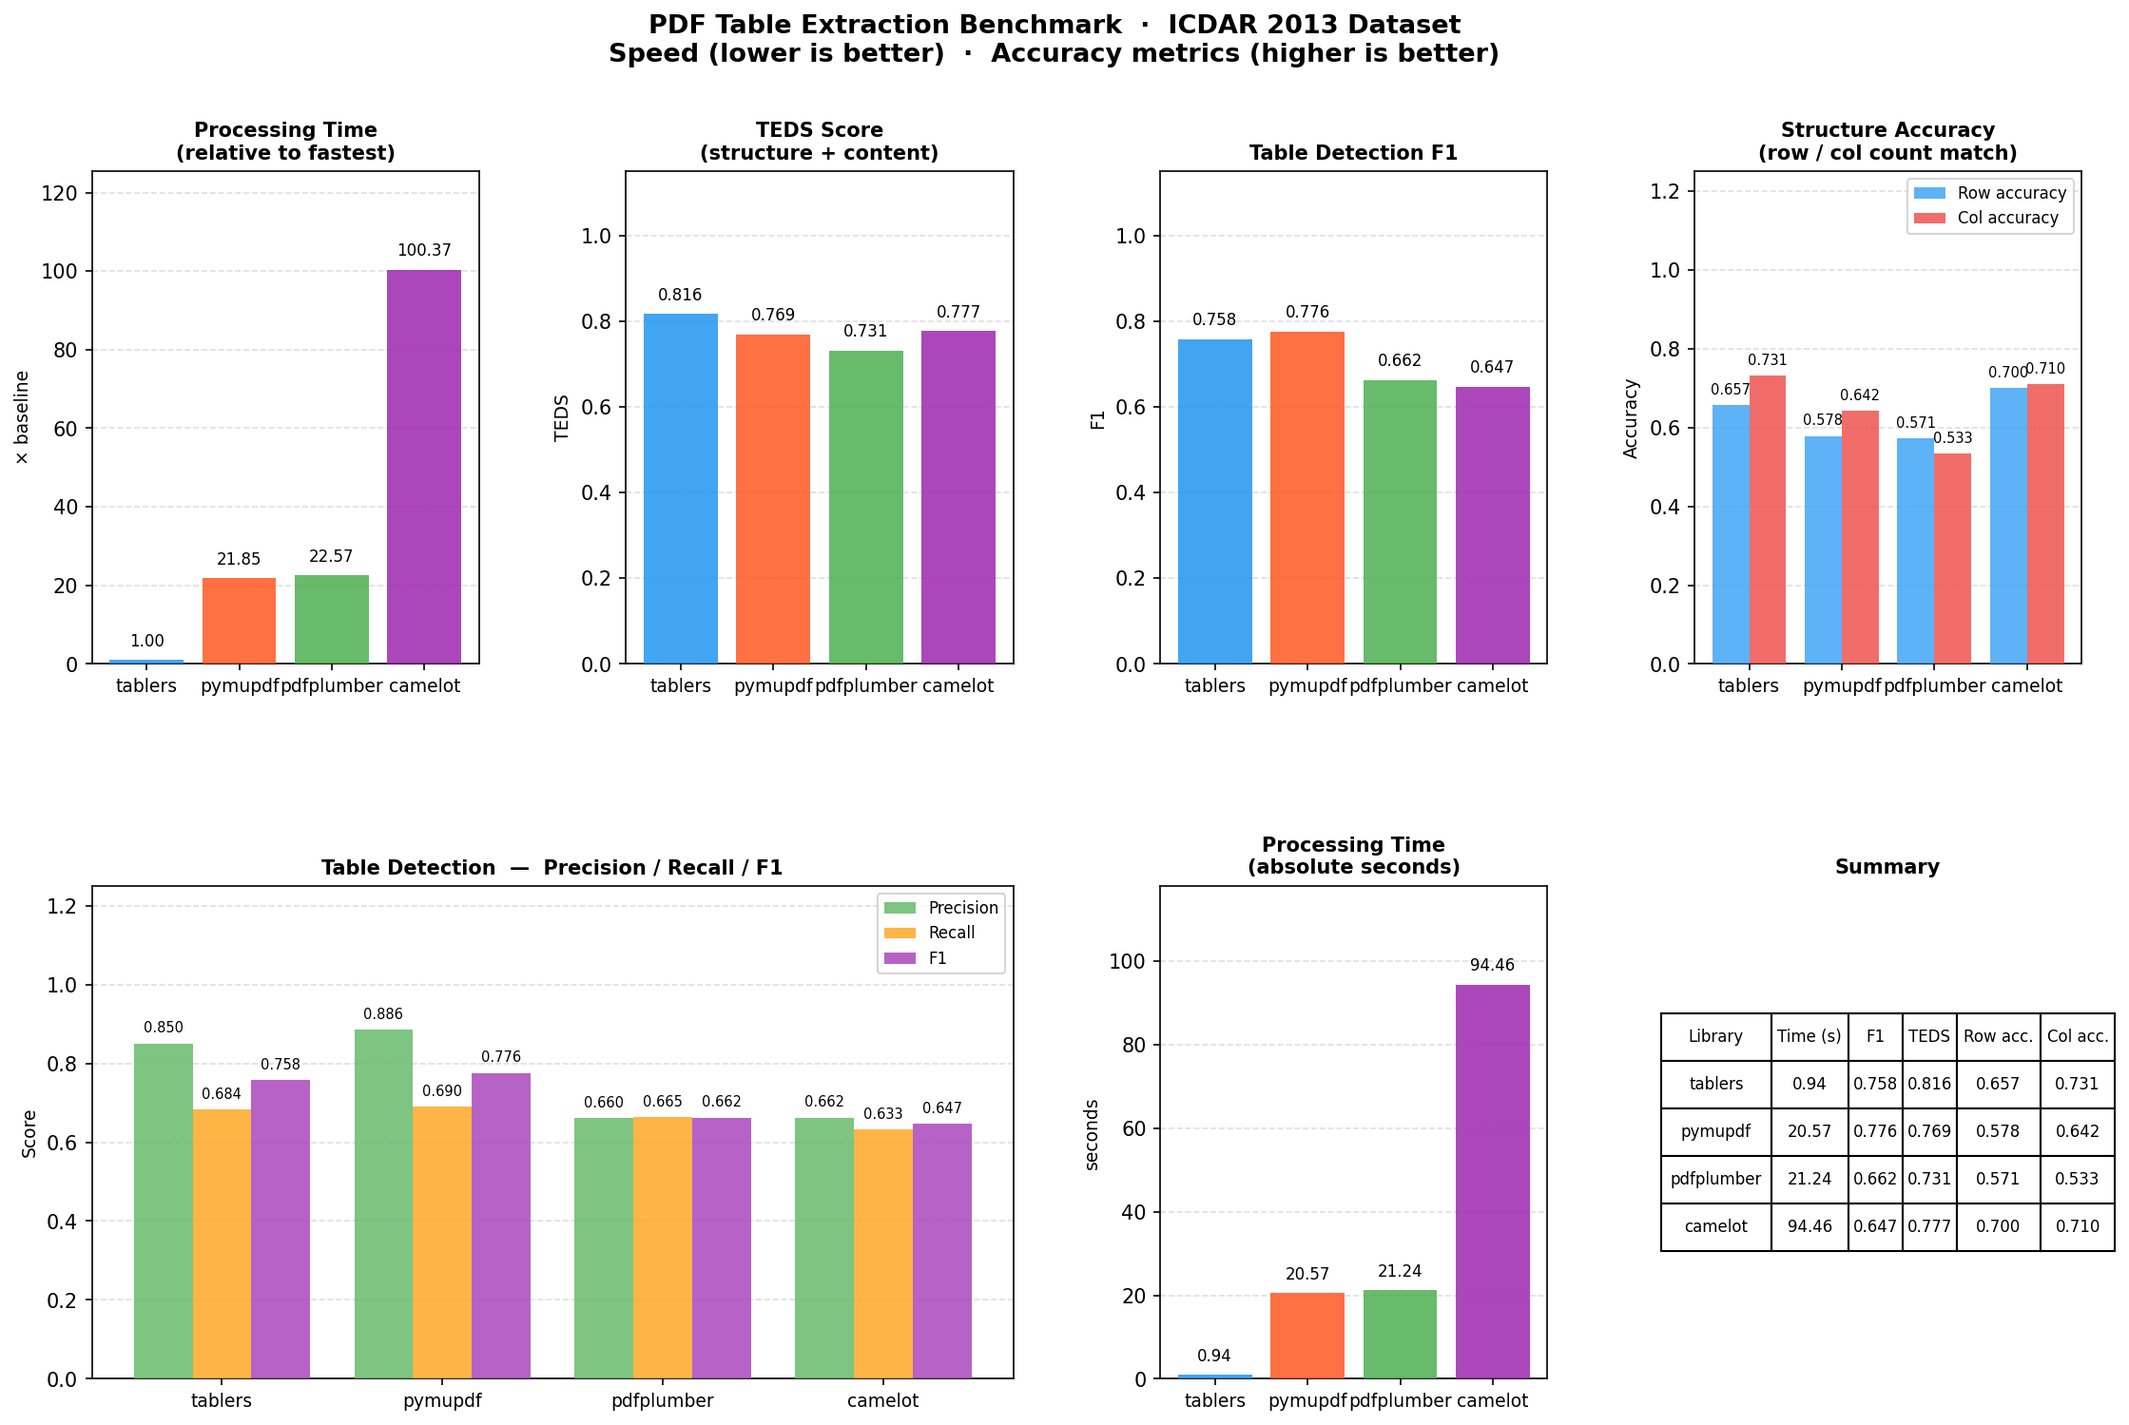
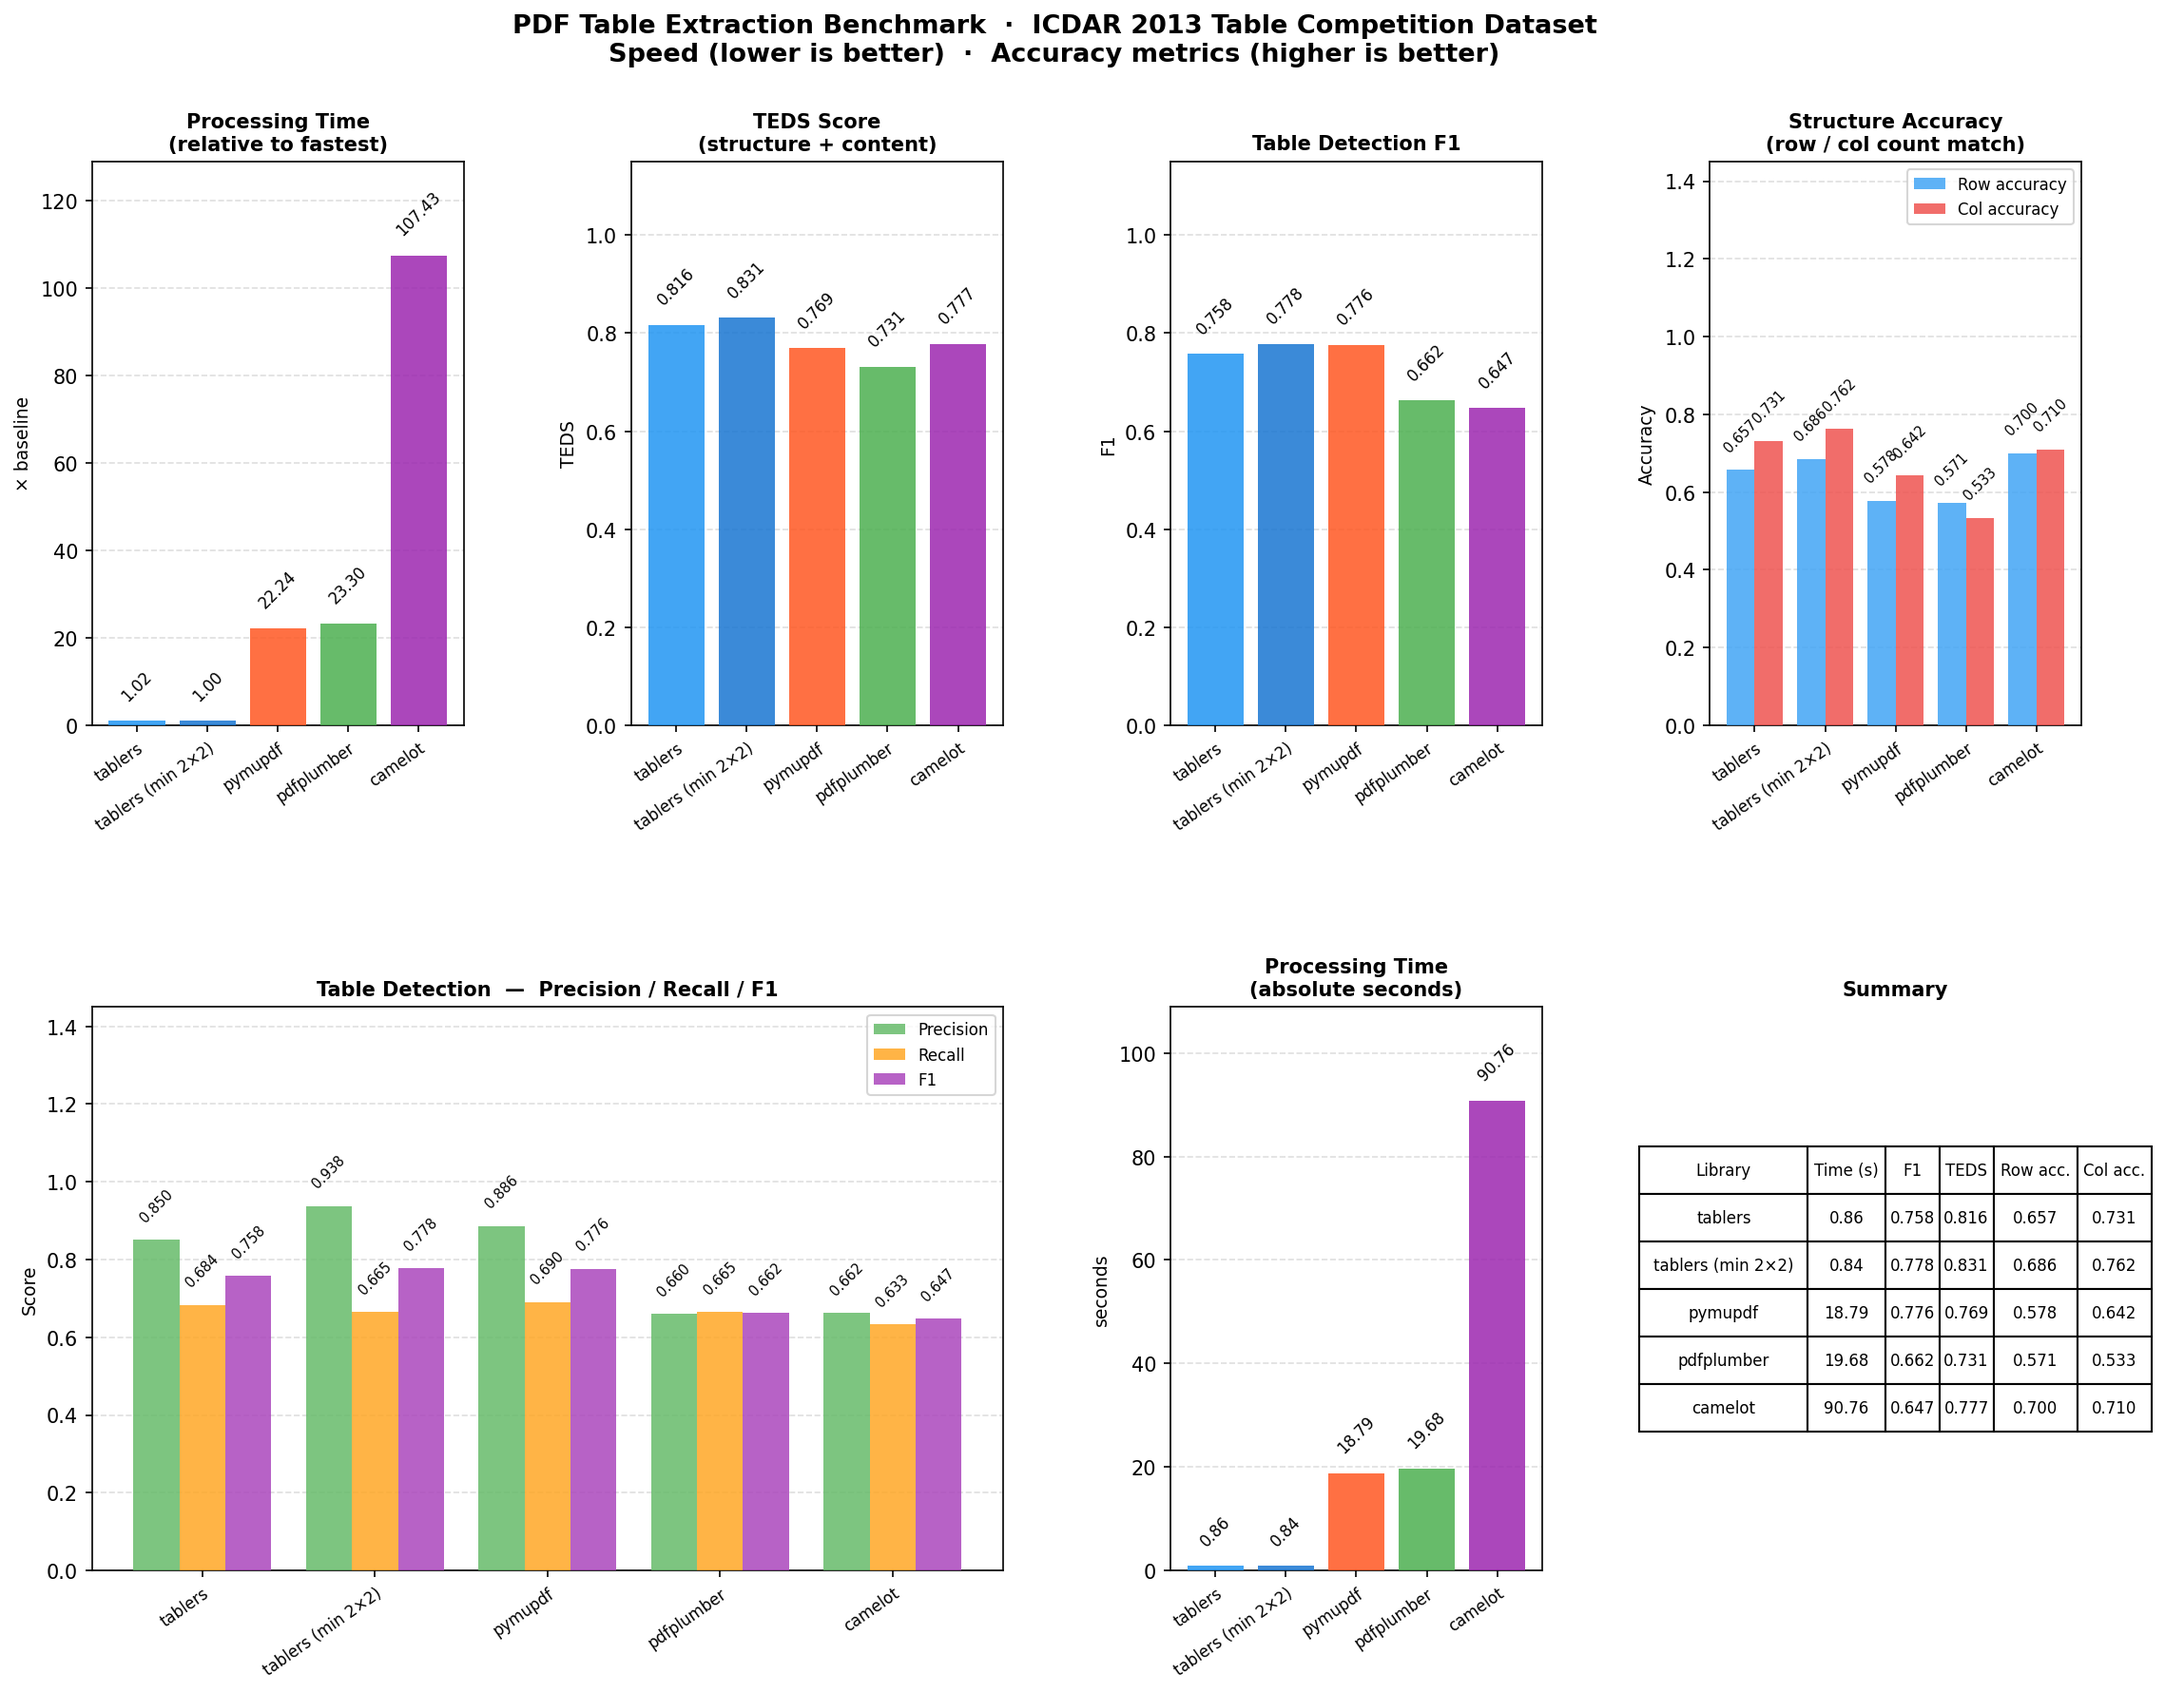
add: tablers min 2x2 config and update plots

diff --git a/main.py b/main.py
@@ -26,8 +26,8 @@ from benchmark.datasets import load_icdar2013
 from benchmark.extractors import EXTRACTORS
 from benchmark.metrics import BenchmarkResult, compute_benchmark_result
 
-# Colour palette (tablers / pymupdf / pdfplumber / camelot)
-_COLORS = ['#2196F3', '#FF5722', '#4CAF50', '#9C27B0']
+# Colour palette (tablers / tablers min 2×2 / pymupdf / pdfplumber / camelot)
+_COLORS = ['#2196F3', '#1976D2', '#FF5722', '#4CAF50', '#9C27B0']
 
 # Number of runs for tablers; average time is used for comparison (it is much faster than others)
 _TABLERS_RUNS = 10
@@ -67,7 +67,7 @@ def run_benchmark(
     results: list[BenchmarkResult] = []
     for lib_name, extractor in EXTRACTORS.items():
         print(f"Running {lib_name} …")
-        if lib_name == 'tablers':
+        if lib_name.startswith('tablers'):
             print(f"  (each document × {_TABLERS_RUNS} runs, using average time for comparison)")
         pred_per_doc: dict[str, dict[int, list]] = {}
         total_time = 0.0
@@ -76,7 +76,7 @@ def run_benchmark(
         for doc in documents:
             key = str(doc.pdf_path)
             try:
-                if lib_name == 'tablers':
+                if lib_name.startswith('tablers'):
                     # Run tablers _TABLERS_RUNS times and use average time for fair comparison
                     run_times: list[float] = []
                     for _ in range(_TABLERS_RUNS):
@@ -124,16 +124,21 @@ def _bar(ax: plt.Axes, libs: list[str], values: list[float],
     bars = ax.bar(libs, values, color=_COLORS[:len(libs)], alpha=0.85, zorder=3)
     ax.set_title(title, fontsize=10, fontweight='bold')
     ax.set_ylabel(ylabel, fontsize=9)
-    top = ylim_top if ylim_top is not None else max(values) * 1.25 if max(values) > 0 else 1
+    max_val = max(values) if values else 0
+    # Leave ~15% headroom above max so value labels don't touch the bar
+    top = ylim_top if ylim_top is not None else (max_val * 1.2 if max_val > 0 else 1)
     ax.set_ylim(0, top)
     ax.grid(axis='y', linestyle='--', alpha=0.4, zorder=0)
-    ax.tick_params(axis='x', labelsize=9)
+    ax.tick_params(axis='x', labelsize=8)
+    plt.setp(ax.get_xticklabels(), rotation=35, ha='right', rotation_mode='anchor')
+    # Fixed gap as fraction of y-axis so spacing looks consistent across subplots
+    label_y_offset = top * 0.03
     for bar, val in zip(bars, values):
         ax.text(
             bar.get_x() + bar.get_width() / 2,
-            bar.get_height() + top * 0.02,
+            bar.get_height() + label_y_offset,
             f'{val:{fmt}}',
-            ha='center', va='bottom', fontsize=8,
+            ha='center', va='bottom', fontsize=8, rotation=45,
         )
 
 
@@ -147,17 +152,22 @@ def _grouped_bar(ax: plt.Axes, libs: list[str],
     ax.set_title(title, fontsize=10, fontweight='bold')
     ax.set_ylabel(ylabel, fontsize=9)
     ax.set_xticks(x)
-    ax.set_xticklabels(libs, fontsize=9)
-    ax.set_ylim(0, 1.25)
+    ax.set_xticklabels(libs, fontsize=8)
+    plt.setp(ax.get_xticklabels(), rotation=35, ha='right', rotation_mode='anchor')
+    # Extra headroom so three value labels per bar don't overlap
+    ax.set_ylim(0, 1.45)
     ax.grid(axis='y', linestyle='--', alpha=0.4, zorder=0)
     for i, (label, vals, colour) in enumerate(series):
         offset = (i - (n - 1) / 2) * width
         bars = ax.bar(x + offset, vals, width, label=label, color=colour, alpha=0.85, zorder=3)
+        # Same gap from bar top to label for all series
+        bar_label_gap = 0.04
         for bar, val in zip(bars, vals):
+            y_pos = bar.get_height() + bar_label_gap
             ax.text(
                 bar.get_x() + bar.get_width() / 2,
-                bar.get_height() + 0.02,
-                f'{val:.3f}', ha='center', va='bottom', fontsize=7,
+                y_pos,
+                f'{val:.3f}', ha='center', va='bottom', fontsize=7, rotation=45,
             )
     ax.legend(fontsize=8)
 
@@ -165,13 +175,14 @@ def _grouped_bar(ax: plt.Axes, libs: list[str],
 def plot_results(results: list[BenchmarkResult], output_path: str) -> None:
     libs = [r.library for r in results]
 
-    fig = plt.figure(figsize=(18, 11))
+    fig = plt.figure(figsize=(18, 13))
+    fig.subplots_adjust(bottom=0.12, top=0.88)
     fig.suptitle(
-        'PDF Table Extraction Benchmark  ·  ICDAR 2013 Dataset\n'
+        'PDF Table Extraction Benchmark  ·  ICDAR 2013 Table Competition Dataset\n'
         'Speed (lower is better)  ·  Accuracy metrics (higher is better)',
-        fontsize=13, fontweight='bold', y=0.98,
+        fontsize=13, fontweight='bold', y=0.96,
     )
-    gs = gridspec.GridSpec(2, 4, figure=fig, hspace=0.45, wspace=0.38)
+    gs = gridspec.GridSpec(2, 4, figure=fig, hspace=0.5, wspace=0.45)
 
     # ── Row 0 ───────────────────────────────────────────────────────────────
 

diff --git a/benchmark/extractors.py b/benchmark/extractors.py
@@ -63,6 +63,35 @@ def extract_tablers(
     return result, elapsed
 
 
+def extract_tablers_min2(
+    pdf_path: str | Path,
+) -> tuple[dict[int, list[list[list[str | None]]]], float]:
+    """Extract tables with **tablers** using min_rows=2, min_columns=2 (aligned with PyMuPDF's requirement)."""
+    from tablers import Document as TabDoc, find_tables, TfSettings
+
+    tf_settings = TfSettings(min_rows=2, min_columns=2)
+    pdf_bytes = Path(pdf_path).read_bytes()
+    result: dict[int, list[list[list[str | None]]]] = {}
+
+    tic = time.perf_counter()
+    with TabDoc(bytes=pdf_bytes) as doc:
+        for page_num, page in enumerate(doc.pages(), start=1):
+            tables_raw = find_tables(
+                page,
+                extract_text=True,
+                tf_settings=tf_settings,
+            )
+            grids: list[list[list[str | None]]] = []
+            for table in tables_raw:
+                rows = table.to_list()
+                grids.append([[_norm_cell(cell.text) for cell in row] for row in rows])
+            if grids:
+                result[page_num] = grids
+    elapsed = time.perf_counter() - tic
+
+    return result, elapsed
+
+
 # ---------------------------------------------------------------------------
 # PyMuPDF
 # ---------------------------------------------------------------------------
@@ -152,6 +181,7 @@ def extract_camelot(
 
 EXTRACTORS: dict[str, object] = {
     'tablers': extract_tablers,
+    'tablers (min 2×2)': extract_tablers_min2,
     'pymupdf': extract_pymupdf,
     'pdfplumber': extract_pdfplumber,
     'camelot': extract_camelot,

diff --git a/README.md b/README.md
@@ -20,7 +20,7 @@ Two dimensions are measured:
 | [pdfplumber](https://github.com/jsvine/pdfplumber) | PDF parsing library built on pdfminer, with table extraction |
 | [camelot](https://github.com/camelot-dev/camelot) | Dedicated table extraction library; uses `lattice` flavor here |
 
-All libraries are used in default settings. `camelot` uses the `lattice` flavor.
+All libraries use their **default configuration** for table extraction; **camelot** is run with the **lattice** flavor. PyMuPDF, however, excludes any table that has only one row or only one column (see [PyMuPDF#3987](https://github.com/pymupdf/PyMuPDF/issues/3987)); this behaviour is not configurable. Among the compared libraries, only **tablers** allows configuring minimum row/column counts. For a fair comparison, the benchmark therefore includes both **tablers** (default) and **tablers (min 2×2)** — the latter with `min_rows=2` and `min_columns=2` so that single-row/single-column tables are filtered out in the same way as in PyMuPDF.
 
 ---
 
